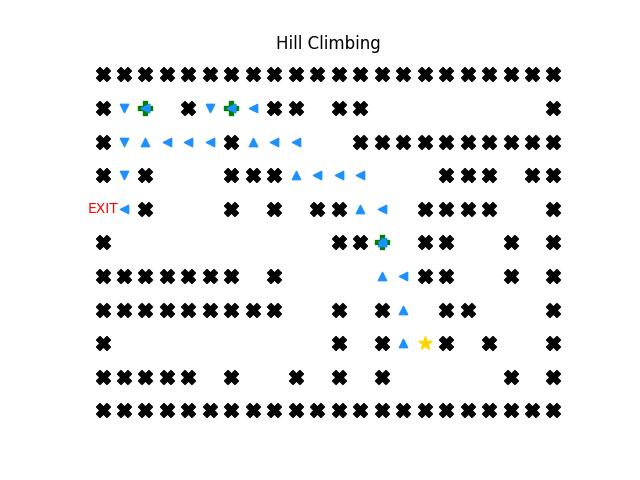
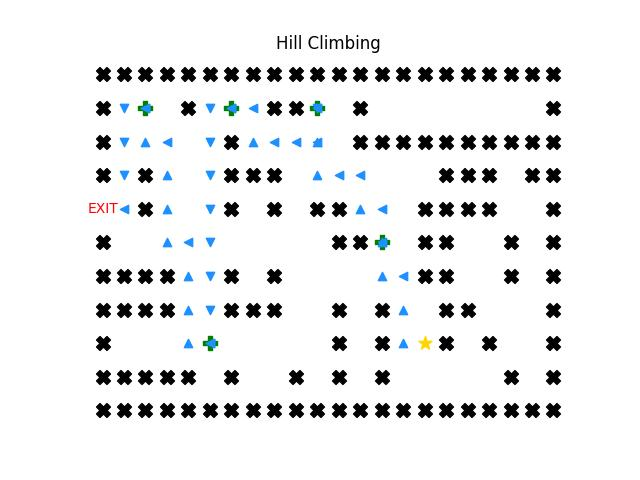
fix route

diff --git a/source/HILL_CLIMBING.py b/source/HILL_CLIMBING.py
@@ -48,20 +48,18 @@ def setupCostCities(cities, start, end, matrix):
         distance_saved[city][end]['cost'] = cost
 
 
-    for i in range(len(cities) - 1):
-        for j in range(i + 1, len(cities)):
+    for i in range(len(cities)):
+        for j in range(len(cities)):
+            if i == j:
+                 continue
             first = cities[i]
             second = cities[j]
             route, explored, cost = BFS_Tele(matrix, first, second, [])
 
             distance_saved[first][second] = {}
-            distance_saved[second][first] = {}
             distance_saved[first][second]['route'] = route
             distance_saved[first][second]['explored'] = explored
             distance_saved[first][second]['cost'] = cost
-            distance_saved[second][first]['route'] = route
-            distance_saved[second][first]['explored'] = explored
-            distance_saved[second][first]['cost'] = cost
     
     return distance_saved
 
